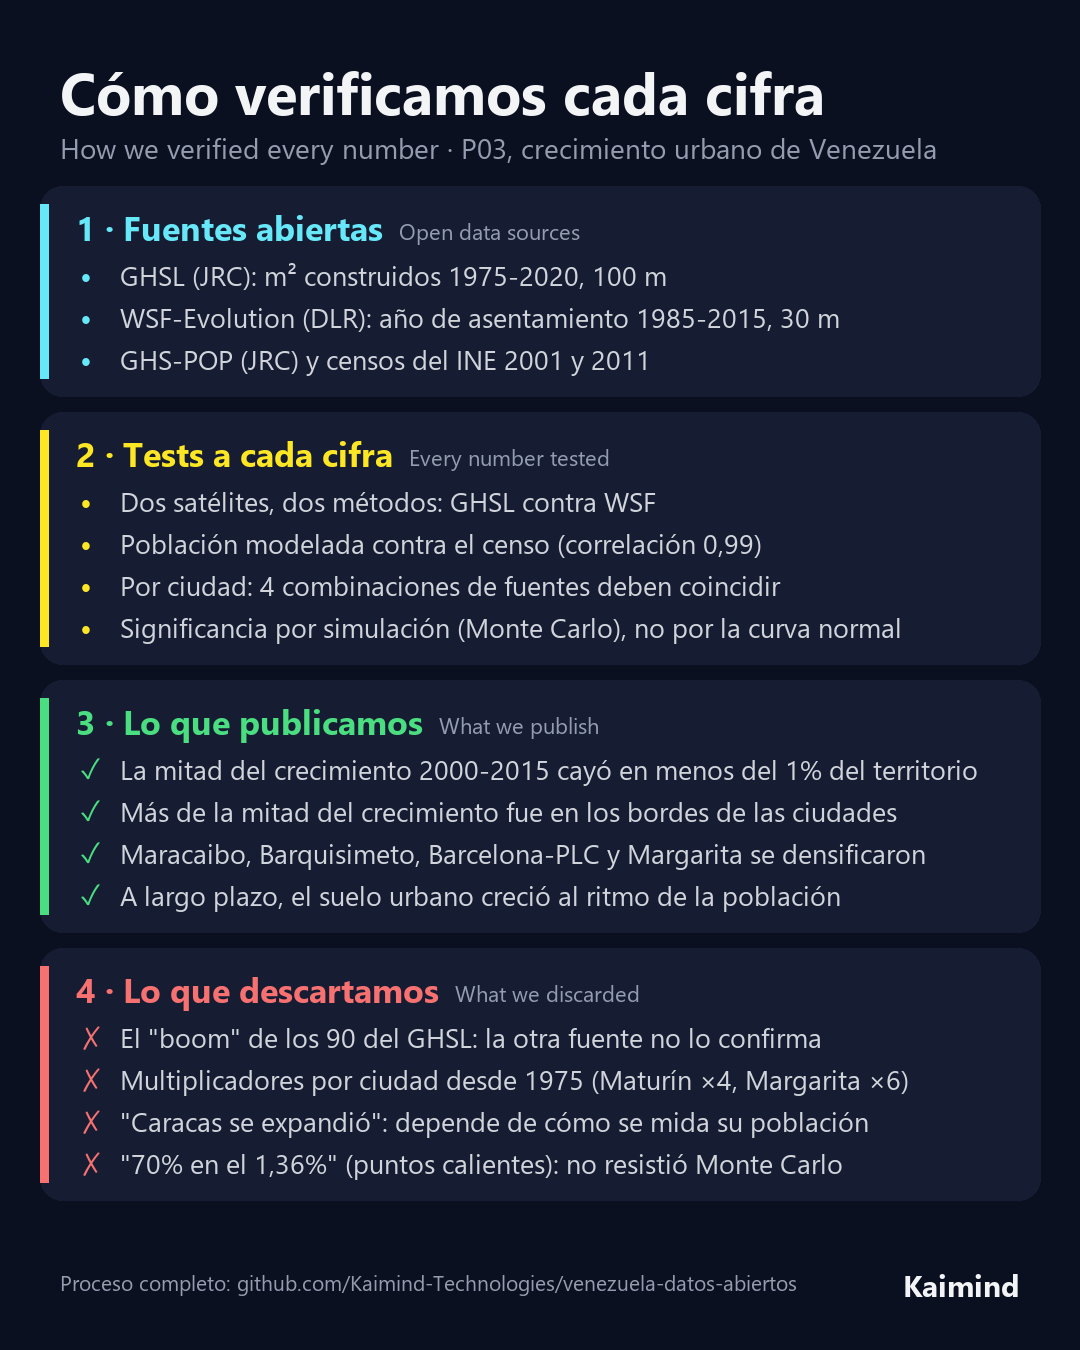
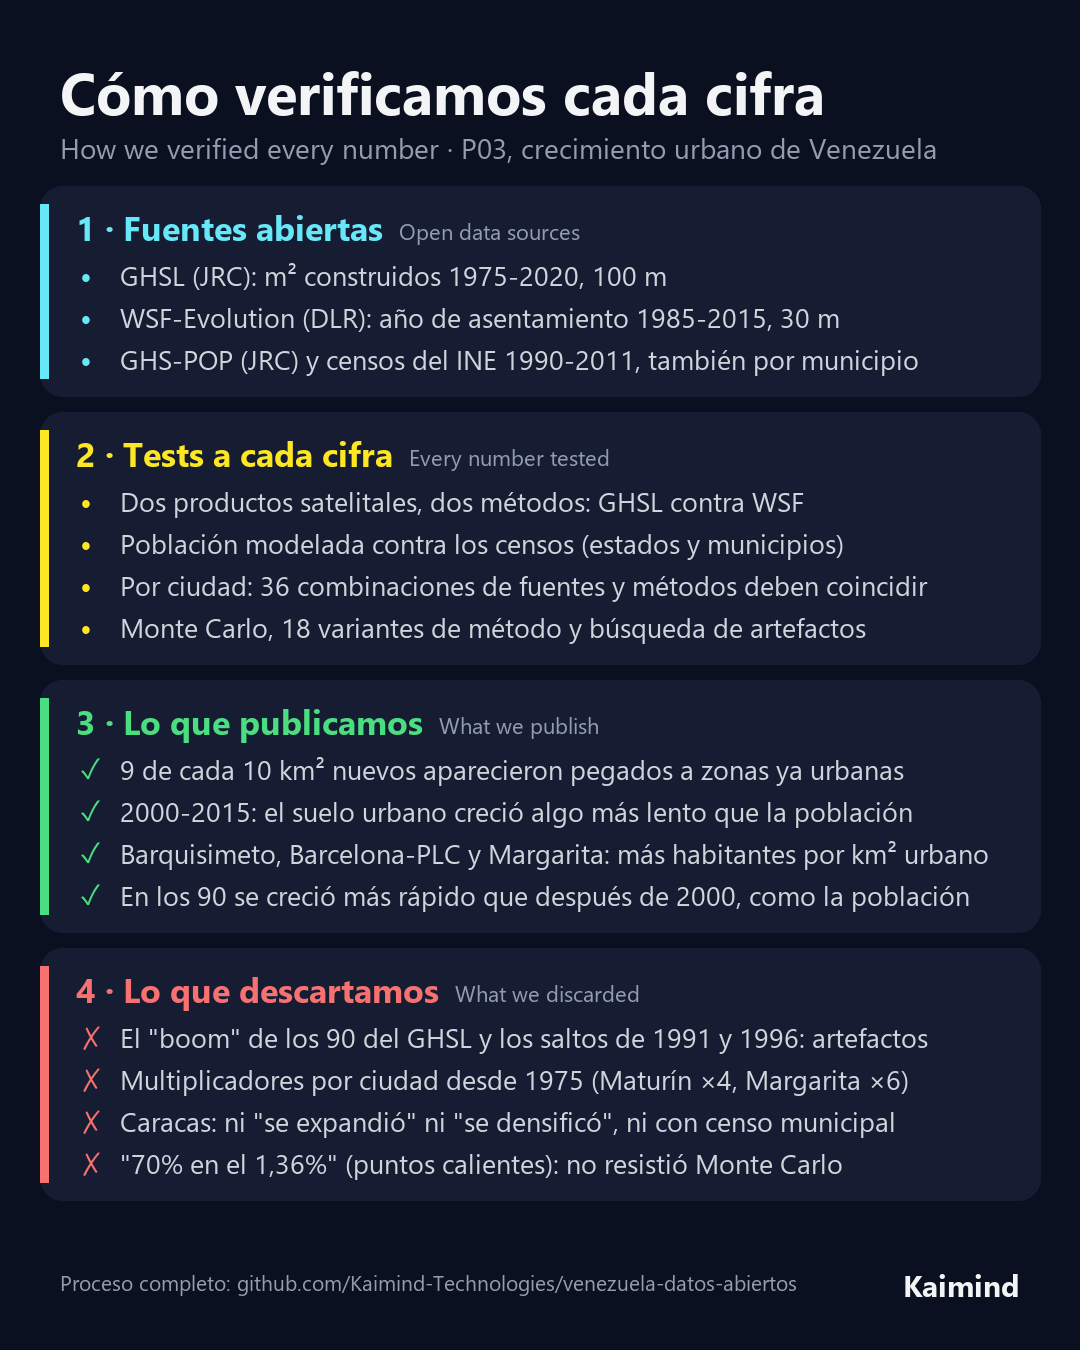
P03: video y lámina con los textos de la validación

diff --git a/p03-crecimiento/video/edit_slider.py b/p03-crecimiento/video/edit_slider.py
@@ -2,9 +2,10 @@
 anual y leyenda de colores, dibujados cuadro a cuadro con Pillow.
 
 Solo se muestran hallazgos que resistieron las verificaciones (PROCESO.md §4.1):
-  - 2000-2015: la mitad del crecimiento cayó en menos del 1% del territorio (0,34-0,38% en
-    hexágonos de ~5 km², GHSL y WSF; contornos celestes en el video);
-  - 2000-2015: más de la mitad del crecimiento fue en los bordes de las ciudades.
+  - 2000-2015: 9 de cada 10 km² nuevos aparecieron pegados a zonas ya urbanas (relleno o
+    bordes; 18 variantes del método, VALIDACION.md T4);
+  - 2000-2015: el suelo urbano creció algo más lento que la población (ODS 0,88-0,95, T2).
+Antes de 2000 se avisa que los saltos de 1991 y 1996 son artefactos de las imágenes (T1).
 
 Lee video/frames_slider/ (record_slider.py) y video/serie_anual.json (layers_slider.py).
 Salida: video/p03_geolibre_bilingue.mp4
@@ -111,20 +112,25 @@ def main() -> None:
             top_block(d, [("How Venezuela's central cities grew, 1985-2015", FONT_B, 42, WHITE),
                           ("Así crecieron las ciudades del centro de Venezuela, 1985-2015", FONT_R, 32, SOFT),
                           ("Valencia · Maracay · Caracas · Valles del Tuy", FONT_R, 26, MUTED)], a)
+        elif y < 2000:
+            top_block(d, [("Year by year, from satellite data", FONT_B, 40, WHITE),
+                          ("Año a año, con datos satelitales", FONT_R, 32, SOFT),
+                          ("Before 2000, read it by decade: the 1991 and 1996 jumps are imagery gaps", FONT_R, 22, MUTED),
+                          ("Antes de 2000, léelo por décadas: los saltos de 1991 y 1996 son huecos en las imágenes", FONT_R, 22, MUTED)], 1)
         elif y < 2015 or k < 30:
             top_block(d, [("Year by year, from satellite data", FONT_B, 40, WHITE),
                           ("Año a año, con datos satelitales", FONT_R, 32, SOFT)], 1)
         elif k < 105:
             a = min(1, (k - 29) / FADE)
-            top_block(d, [("Half of 2000-2015 growth landed on less than 1% of the land", FONT_B, 40, CYAN),
-                          ("La mitad del crecimiento 2000-2015 cayó en menos del 1% del territorio", FONT_B, 32, WHITE),
-                          ("(light-blue outlines · 0.38% of the land · two satellite datasets agree)", FONT_R, 24, MUTED),
-                          ("(contornos celestes · el 0,38% del territorio · coinciden dos fuentes satelitales)", FONT_R, 24, MUTED)], a)
+            top_block(d, [("9 in 10 km² of new settlement grew next to existing urban areas", FONT_B, 40, CYAN),
+                          ("9 de cada 10 km² nuevos crecieron pegados a zonas ya urbanas", FONT_B, 32, WHITE),
+                          ("(2000-2015 · infill or city edges · two satellite products agree)", FONT_R, 24, MUTED),
+                          ("(2000-2015 · relleno o bordes · coinciden dos productos satelitales)", FONT_R, 24, MUTED)], a)
         elif k < 165:
             a = min(1, (k - 104) / FADE)
-            top_block(d, [("More than half of it grew at the edges of cities", FONT_B, 42, YELLOW),
-                          ("Más de la mitad creció en los bordes de las ciudades", FONT_B, 34, WHITE),
-                          ("(2000-2015 · GHSL and WSF agree / GHSL y WSF coinciden)", FONT_R, 24, MUTED)], a)
+            top_block(d, [("2000-2015: urban land grew slightly slower than the population", FONT_B, 40, YELLOW),
+                          ("2000-2015: el suelo urbano creció algo más lento que la población", FONT_B, 32, WHITE),
+                          ("(UN SDG 11.3.1: 0.88-0.95 · satellites and censuses / satélites y censos)", FONT_R, 24, MUTED)], a)
         else:
             a = min(1, (k - 164) / FADE)
             top_block(d, [("Explore it yourself in GeoLibre", FONT_B, 48, WHITE),

diff --git a/p03-crecimiento/VALIDACION.md b/p03-crecimiento/VALIDACION.md
@@ -160,8 +160,8 @@ Sensibilidad a la omisión censal: con la población estimada por el INE (correg
 ## Pendientes
 
 - **Censo municipal de Zulia, Aragua y Bolívar.** Sus PDF del INE (`ESTADO-ZULIA.pdf`, `ESTADO-ARAGUA-1.pdf`, `ESTADO-BOLIVAR.pdf`) no se pudieron descargar el 22 de octubre de 2026: el servidor del INE rechazaba las conexiones y la copia del Internet Archive limitaba las descargas. Sus municipios ya están en el CSV con las columnas del censo vacías: basta con llenar `censo_2001` y `censo_2011` desde el Cuadro 2.2 y volver a correr `verify_cities_census.py`. El script comprueba que los municipios de cada estado sumen el total estatal y se detiene si no cuadra. Solo Zulia puede cambiar lo publicable (Maracaibo). Si con el censo municipal Maracaibo da < 0,9 en las 36 combinaciones, se suma a las otras tres ciudades; si no, queda "no concluyente".
-- **Video.** Sus textos son los de la primera versión: "la mitad del crecimiento en menos del 1% del territorio (0,38%)" queda en 🟡 y "más de la mitad en los bordes" es más débil que "9 de cada 10 km² nuevos, pegados a lo existente". Además, el contador y el slider muestran los saltos de 1991 y 1996 (T1). Si no se regraba, el texto del post debe aclarar ambas cosas.
-- **Lámina.** `lamina_proceso.py` ya tiene los textos nuevos, pero usa fuentes de Windows (Segoe UI): el PNG se regenera en esa máquina.
+- ~~**Video.**~~ Resuelto el 22 de octubre: los textos del video siguen esta validación ("9 de cada 10 km² nuevos, pegados a zonas ya urbanas" y "el suelo urbano creció algo más lento que la población", ODS 0,88-0,95), y antes de 2000 avisa que los saltos de 1991 y 1996 son huecos en las imágenes (T1). Los contornos celestes siguen marcando la mitad del crecimiento 2000-2015 (T3, 🟡).
+- ~~**Lámina.**~~ Resuelto el 22 de octubre: `output/como_verificamos.png` regenerada con los textos nuevos.
 
 ## Fuentes nuevas
 
